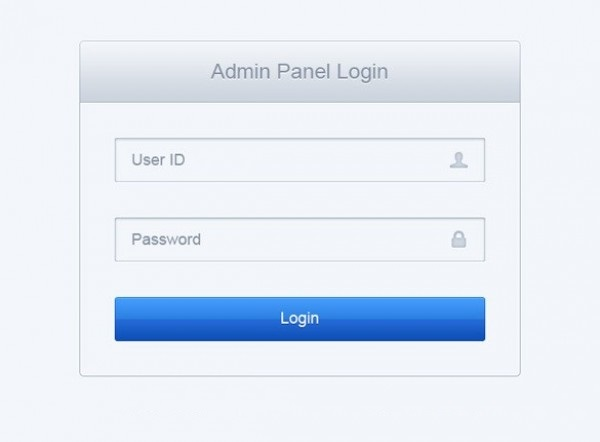
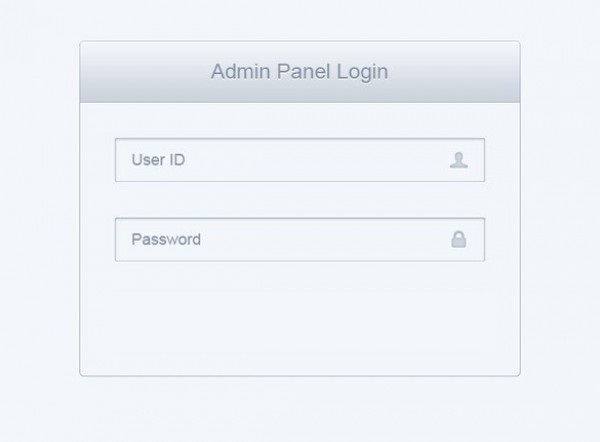
DBs

Changed region(s): [[0.18, 0.6471, 0.81, 0.7941]]

diff --git a/act-web/src/main/webapp/resources/js/actAngular.js b/act-web/src/main/webapp/resources/js/actAngular.js
@@ -99,48 +99,54 @@ module.controller("serverController", function ($scope, $state) {
         dataType: 'json',
         async: false,
         success: function(data) {
-            $scope.serverList = data;
-            $scope.config = {
-	    	    itemsPerPage: 3,
-	    	    fillLastPage: true
-            }
+            $scope.webServerList = data;
         }
     }).fail(function() {
     	$scope.loading = false;
     });
 	
-	$scope.startServer = function(serverBean) {
+	$scope.addWebServer = function(serverBean) {
+		
+	};
+	
+	$scope.startWebServer = function(serverBean) {
 		$.ajax({
 	        url: '/act-web/actServer/startServer.do?serverBean='+JSON.stringify(serverBean),
 	        type: 'POST',
 	        dataType: 'json',
 	        async: false,
 	        success: function(data) {
-	            $scope.serverList = data;
-	            $scope.config = {
-		    	    itemsPerPage: 3,
-		    	    fillLastPage: true
-	            }
+	            $scope.webServerList = data;
 	        }
 	    }).fail(function() {
 	    	$scope.loading = false;
 	    });
 	};
+	
+	$scope.stopWebServer = function(serverBean) {
+	};
+	
+	$scope.configureWebServer = function(serverBean) {
+	};
+	
+	$scope.trackChangesWebServer = function(serverBean) {
+	};
+	
+	$scope.logsWebServer = function(serverBean) {
+	};
+	
+	$scope.deleteWebServer = function(serverBean) {
+	};
 });
 
 module.controller("databaseController", function ($scope, $state) {
-	
 	$.ajax({
 	    url: '/act-web/actDb/getAllDbServers.do',
 	    type: 'GET',
 	    dataType: 'json',
 	    async: false,
 	    success: function(data) {
-	        $scope.serverList = data;
-	        $scope.config = {
-	    	    itemsPerPage: 3,
-	    	    fillLastPage: true
-	        }
+	        $scope.dbServerList = data;
 	    }
 	}).fail(function() {
 		$scope.loading = false;

diff --git a/act-web/src/main/webapp/resources/css/act.css b/act-web/src/main/webapp/resources/css/act.css
@@ -64,9 +64,12 @@
 	width: 246px;
 }
 .loginSubmit {
-	margin-top: 24px;
 	font-weight: bold;
-	font-size: 20px;
+}
+.loginButtons {
+	margin-top: 24px;
+	margin-left: auto;
+	margin-right: auto;
 }
 .loginUserNameBox {
 	margin-top: 93px;
@@ -123,26 +126,26 @@ legend {
 	height: 125px;
 	width: 20px;
 	float: left;
-  	background-color: #DADADA;
+	opacity: 0.5;
+	filter: alpha(opacity=30);
 }
 .serverSideMenu:hover {
 	height: 125px;
 	width: 20px;
 	float: left;
   	cursor: pointer;
-  	background-color: #FFF;
+  	opacity: 1;
+	filter: alpha(opacity=100);
+}
+.activeBg {
+	background-color: #82E976;
+}
+.inactiveBg {
+	background-color: #ff7d7d;
 }
 .serverSideMenuLink {
 	width: 20px;
 	float: right;
-	opacity: 0.3;
-	filter: alpha(opacity=30);
-}
-.serverSideMenuLink:hover {
-	width: 20px;
-	float: right;
-	opacity: 1;
-	filter: alpha(opacity=100);
 }
 .serverFolder {
 	height: 125px;
@@ -167,8 +170,9 @@ legend {
 	margin: 2px;
 }
 .serverDescription {
-	height: 35px;
+	height: 45px;
 	width: 130px;
 	overflow:auto;
 	margin-left:5px;
+	font-size: 10px;
 }

diff --git a/act-model/src/main/java/com/act/model/service/impl/DatabaseServiceImpl.java b/act-model/src/main/java/com/act/model/service/impl/DatabaseServiceImpl.java
@@ -1,15 +1,31 @@
 package com.act.model.service.impl;
 
+import java.util.ArrayList;
 import java.util.List;
 
 import com.act.core.beans.DatabaseBean;
 import com.act.model.service.DatabaseService;
+import com.act.util.dbserver.impl.DatabaseType;
 
 public class DatabaseServiceImpl implements DatabaseService {
 
 	@Override
 	public List<DatabaseBean> getAllDbServers() {
-		return null;
+		List<DatabaseBean> returnList = new ArrayList<DatabaseBean>();
+		DatabaseBean bean = new DatabaseBean();
+		bean.setDbDescription("This database server runs in the Production environment. Set up to fulfil all requirements of Production.");
+		bean.setDbName("Production");
+		bean.setDbStatus("Running");
+		bean.setDbType(DatabaseType.MySQL);
+		bean.setId((long)1);
+		returnList.add(bean);
+		bean = new DatabaseBean();
+		bean.setDbDescription("This database server runs in the Development environment. Set up to fulfil all requirements of Development.");
+		bean.setDbName("Development");
+		bean.setDbStatus("Stopped");
+		bean.setDbType(DatabaseType.PostgreSQL);
+		bean.setId((long)2);
+		returnList.add(bean);
+		return returnList;
 	}
-
 }

diff --git a/act-core/src/main/java/com/act/core/beans/DatabaseBean.java b/act-core/src/main/java/com/act/core/beans/DatabaseBean.java
@@ -27,6 +27,8 @@ public class DatabaseBean implements Serializable {
 	private DatabaseType dbType;
 	@DtoField
 	private String dbStatus;
+	@DtoField
+	private String dbDescription;
 	
 	public Long getId() {
 		return id;
@@ -69,5 +71,11 @@ public class DatabaseBean implements Serializable {
 	}
 	public void setDbStatus(String dbStatus) {
 		this.dbStatus = dbStatus;
+	}
+	public String getDbDescription() {
+		return dbDescription;
+	}
+	public void setDbDescription(String dbDescription) {
+		this.dbDescription = dbDescription;
 	}
 }
